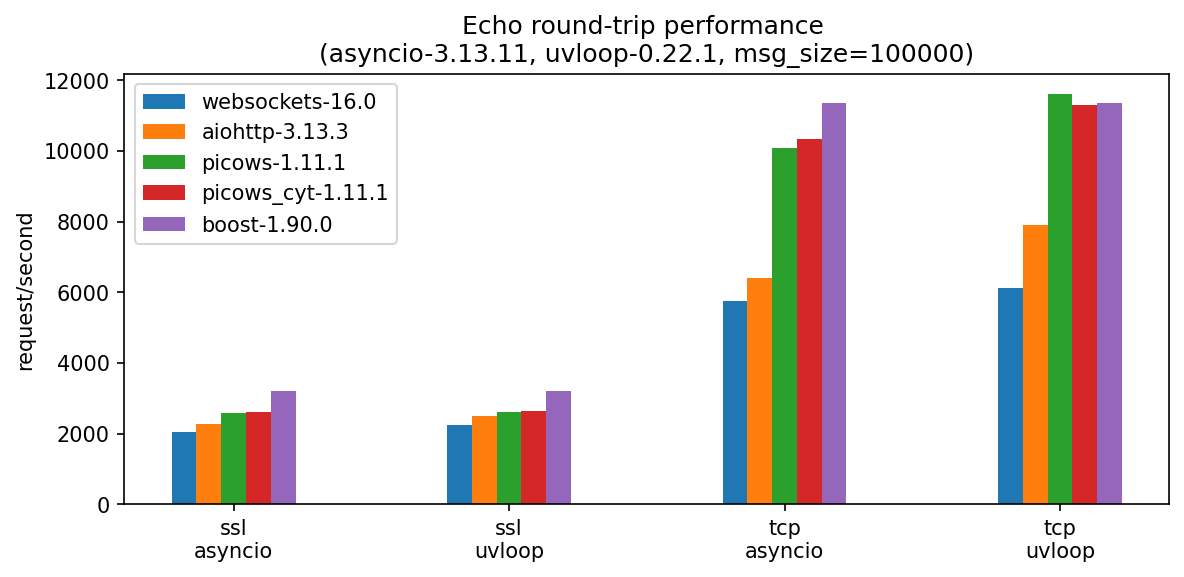
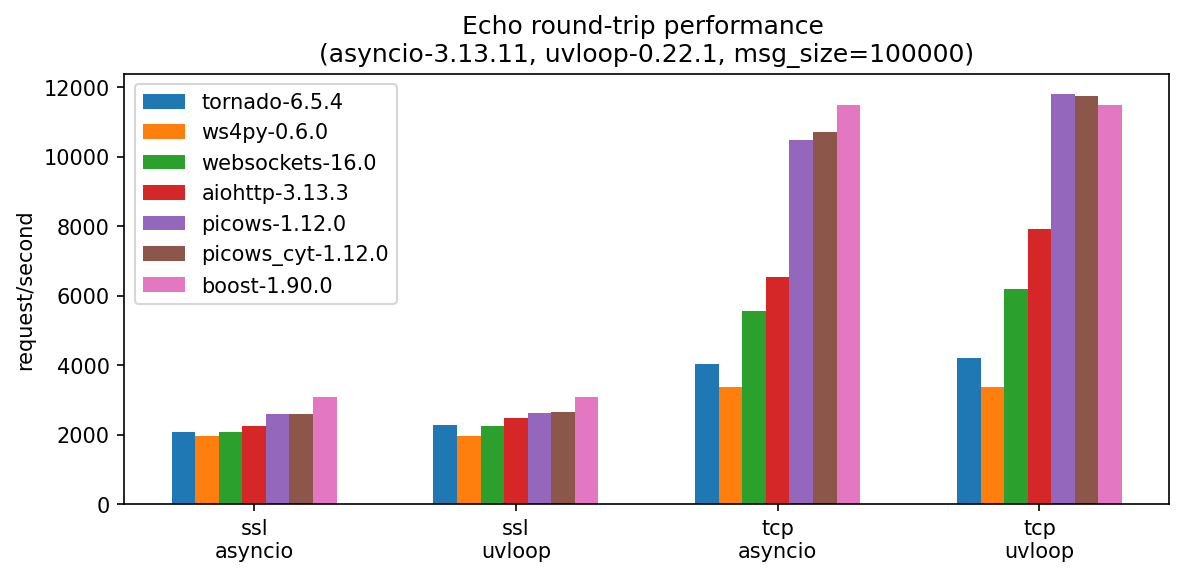
Add ws4py

diff --git a/websocket_benchmark/benchmark.py b/websocket_benchmark/benchmark.py
@@ -3,8 +3,11 @@ import asyncio
 import importlib
 import os
 import platform
+import pstats
 import ssl
+import cProfile
 from pathlib import Path
+from pstats import SortKey
 
 import uvloop
 
@@ -81,9 +84,11 @@ def main():
 
     # I'm not sure if I did tornado client in the best possible way.
     # It shows remarkably bad performance, worse than websocket, so I disable it for now.
-    parser.add_argument("--clients", default="websockets,aiohttp,picows,picows_cyt,boost", help="Comma separated list of clients")
+    parser.add_argument("--clients", default="tornado,ws4py,websockets,aiohttp,picows,picows_cyt,boost", help="Comma separated list of clients")
     parser.add_argument("--skip-tcp", action="store_true", help="Disable plain tcp client test")
     parser.add_argument("--skip-ssl", action="store_true", help="Disable ssl client test")
+
+    parser.add_argument("--profile", action="store_true", help="Enable profiling, print profile stats afterwards")
 
     args = parser.parse_args()
 
@@ -104,6 +109,11 @@ def main():
     if not args.skip_tcp:
         tcp_ssl_targets.append((None, tcp_url))
 
+    pr = cProfile.Profile()
+
+    if args.profile:
+        pr.enable()
+
     pd_columns = []
     results = []
     for module_idx, module_name in enumerate(modules):
@@ -115,7 +125,7 @@ def main():
         for ctx, url in tcp_ssl_targets:
             msg = os.urandom(msg_size)
 
-            if m.name not in ('c++ beast',):
+            if m.name not in ('c++ beast', 'ws4py'):
                 for loop in loops:
                     if loop == "uvloop":
                         asyncio.set_event_loop_policy(uvloop.EventLoopPolicy())
@@ -138,6 +148,11 @@ def main():
                     if module_idx == 0:
                         pd_columns.append(f"{tcp_ssl_name}-{loop}")
                     module_results.append(rps)
+
+    if args.profile:
+        pr.disable()
+        pr.print_stats()
+        return
 
     df = pd.DataFrame(results, index=pd_index, columns=pd_columns)
     if not args.no_plot:

diff --git a/websocket_benchmark/client_ws4py.py b/websocket_benchmark/client_ws4py.py
@@ -1,0 +1,49 @@
+import socket
+from time import time
+import wsaccel
+
+from ws4py.client.threadedclient import WebSocketClient
+from ws4py import __version__ as version
+
+name = "ws4py"
+
+
+wsaccel.patch_ws4py()
+
+
+async def run(args, url: str, msg: bytes, duration: float, warmup_cycles_cnt: int, ssl_context):
+    class Client(WebSocketClient):
+        _start_time: float
+        _warmup_cycles_cnt: int
+        _cnt: int
+
+        def opened(self):
+            self.sock.setsockopt(socket.IPPROTO_TCP, socket.TCP_NODELAY, 1)
+
+            if warmup_cycles_cnt == 0:
+                self._start_time = time()
+            else:
+                self._start_time = 0
+            self._warmup_cycles_cnt = warmup_cycles_cnt
+            self._cnt = 0
+            self.send(msg, True)
+
+        def received_message(self, m):
+            if self._warmup_cycles_cnt > 0:
+                self._warmup_cycles_cnt -= 1
+                if self._warmup_cycles_cnt == 0:
+                    self._start_time = time()
+            else:
+                self._cnt += 1
+
+                if time() - self._start_time >= duration:
+                    self.result = int(self._cnt / duration)
+                    self.close()
+                    return
+
+            self.send(msg, True)
+
+    ws = Client(url)
+    ws.connect()
+    ws.run_forever()
+    return ws.result
